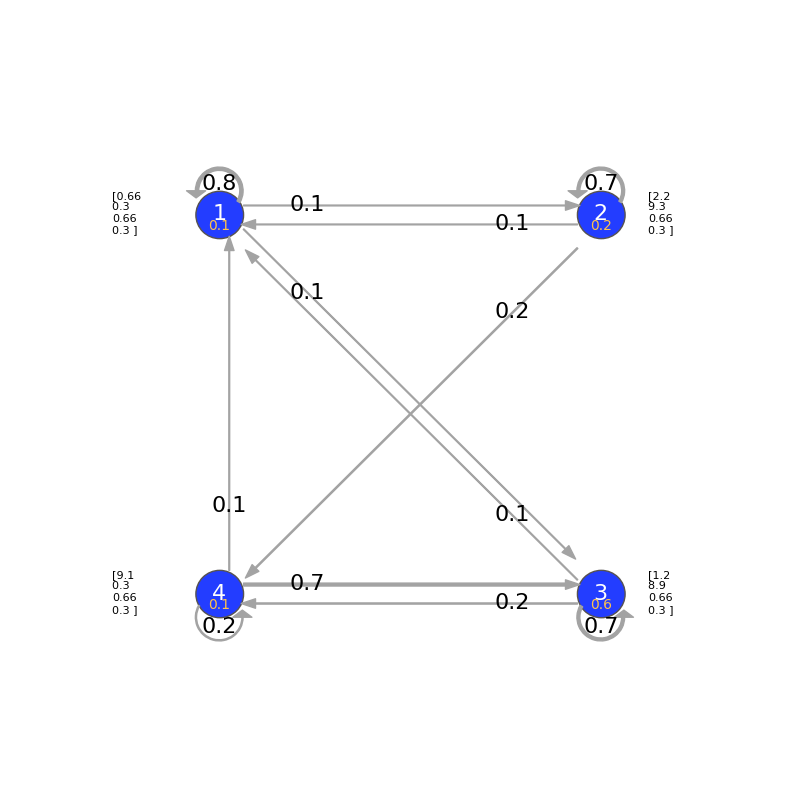
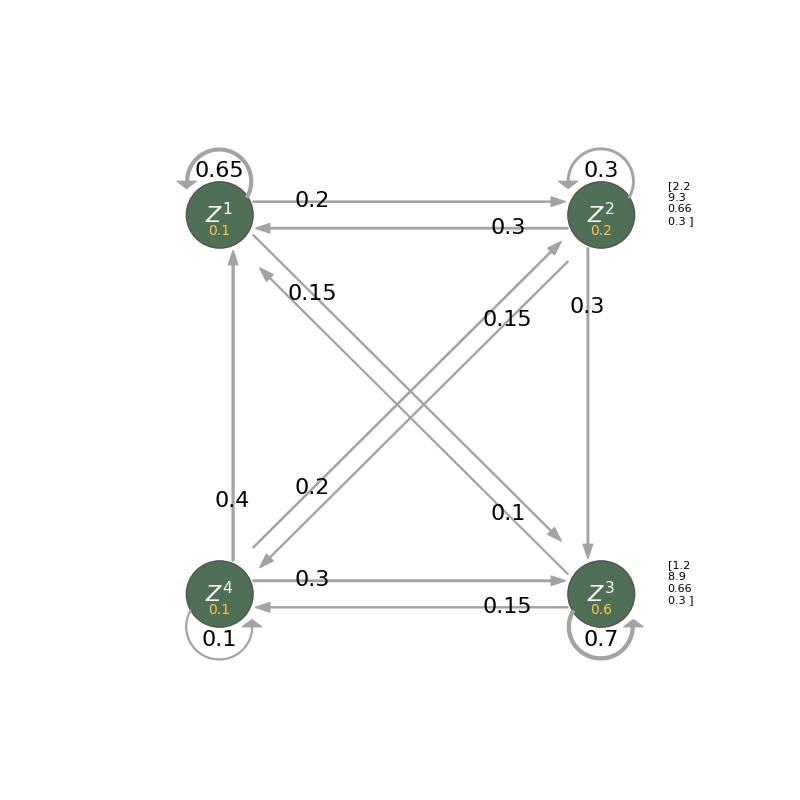
Adjusted node size of chain with 4 nodes. Updated demo.

Changed region(s): [[0.2188, 0.1875, 0.875, 0.8438], [0.125, 0.7188, 0.1875, 0.75], [0.125, 0.25, 0.1875, 0.2812]]

diff --git a/src/demo_hmm.py b/src/demo_hmm.py
@@ -21,7 +21,7 @@ def main():
         [0.1, 0.4, 0.1, 0.4, 0.1, 0.4],
         [0.22, 0.33, 0.22, 0.33, 0.22, 0.33]
     ])
-    mc = MarkovChain(P, ['1', '2'], init_probs, mean)
+    mc = MarkovChain(P, [r'$Z^1$', r'$Z^2$'], init_probs, mean)
     mc.draw("../img/markov-chain-two-states-hmm.png")
     
     #--------------------------------------------------------------------------
@@ -38,17 +38,17 @@ def main():
             [51, 3, 4, 5],
             [13, 7, 2, 90]
     ])
-    mc = MarkovChain(P, ['A', 'B', 'C'], init_probs, mean)
+    mc = MarkovChain(P, [r'$Z^1$', r'$Z^2$', r'$Z^3$'], init_probs, mean)
     mc.draw("../img/markov-chain-three-states-hmm.png")
- 
+    
     #--------------------------------------------------------------------------
     # 4-state Markov chain
     #--------------------------------------------------------------------------
     P = np.array([
-        [0.8, 0.1, 0.1, 0.0], 
-        [0.1, 0.7, 0.0, 0.2],
-        [0.1, 0.0, 0.7, 0.2],
-        [0.1, 0.0, 0.7, 0.2]
+        [0.65, 0.2, 0.15, 0.0], 
+        [0.3, 0.3, 0.3, 0.15],
+        [0.1, 0.0, 0.7, 0.15],
+        [0.4, 0.2, 0.3, 0.1]
     ])
     init_probs = np.array([0.1, 0.2, 0.6, 0.1])
     mean = np.array([
@@ -57,8 +57,8 @@ def main():
         [1.2, 8.9, 0.66, 0.3],
 	    [9.1, 0.3, 0.66, 0.3]
 	])
-    mc = MarkovChain(P, ['1', '2', '3', '4'], init_probs, mean)
-    mc.draw("../img/markov-chain-four-states-HMM.png")
+    mc = MarkovChain(P, [r'$Z^1$', r'$Z^2$', r'$Z^3$', r'$Z^4$'], init_probs, mean)
+    mc.draw("../img/markov-chain-four-states-hmm.png")
  
 
 if __name__ == "__main__":

diff --git a/src/markovchain.py b/src/markovchain.py
@@ -43,7 +43,11 @@ class MarkovChain:
         self.node_edgecolor = '#565251'
 
         # Drawing config
-        self.node_radius = 0.5
+        if M.shape[0] == 4:
+            self.node_radius = 0.7
+        else:
+            self.node_radius = 0.5
+            
         self.arrow_width = 0.03
         self.arrow_head_width = 0.20
         self.text_args = {

diff --git a/src/node.py b/src/node.py
@@ -7,7 +7,7 @@ class Node():
     
     def __init__(
         self, center, radius, label, 
-        facecolor='#233dff', edgecolor='#565251',
+        facecolor='#2693de', edgecolor='#e6e6e6',
         ring_facecolor='#a3a3a3', ring_edgecolor='#a3a3a3',
         init_prob = None, mean = None
         ):

diff --git a/README.md b/README.md
@@ -64,6 +64,7 @@ mc.draw("../img/markov-chain-four-states.png")
 
 
 #### Plotting HMM Markov chains with initial probabilities and emission means
+##### Contribution by joel-n
 
 ```
 P = np.array([
